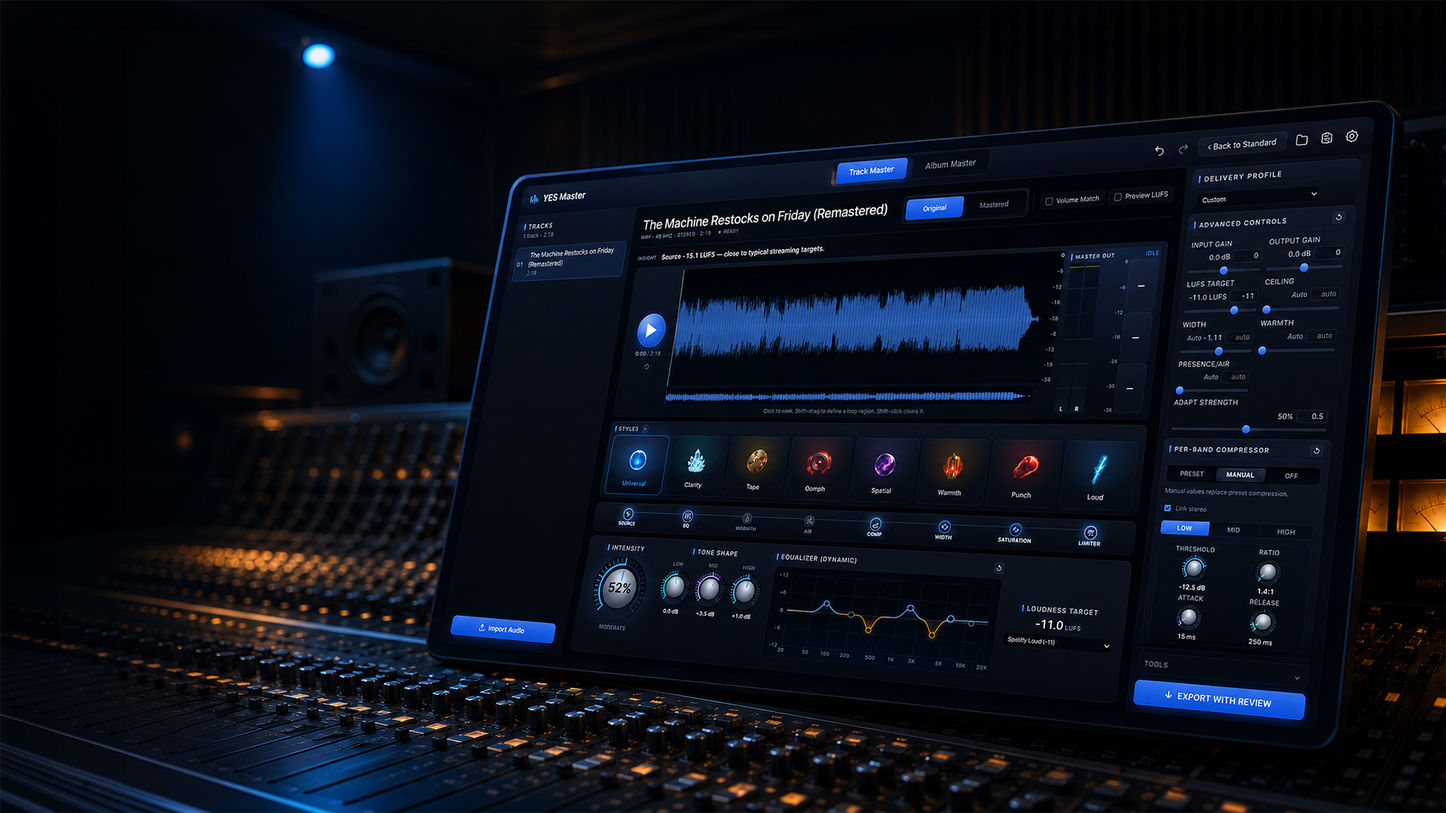
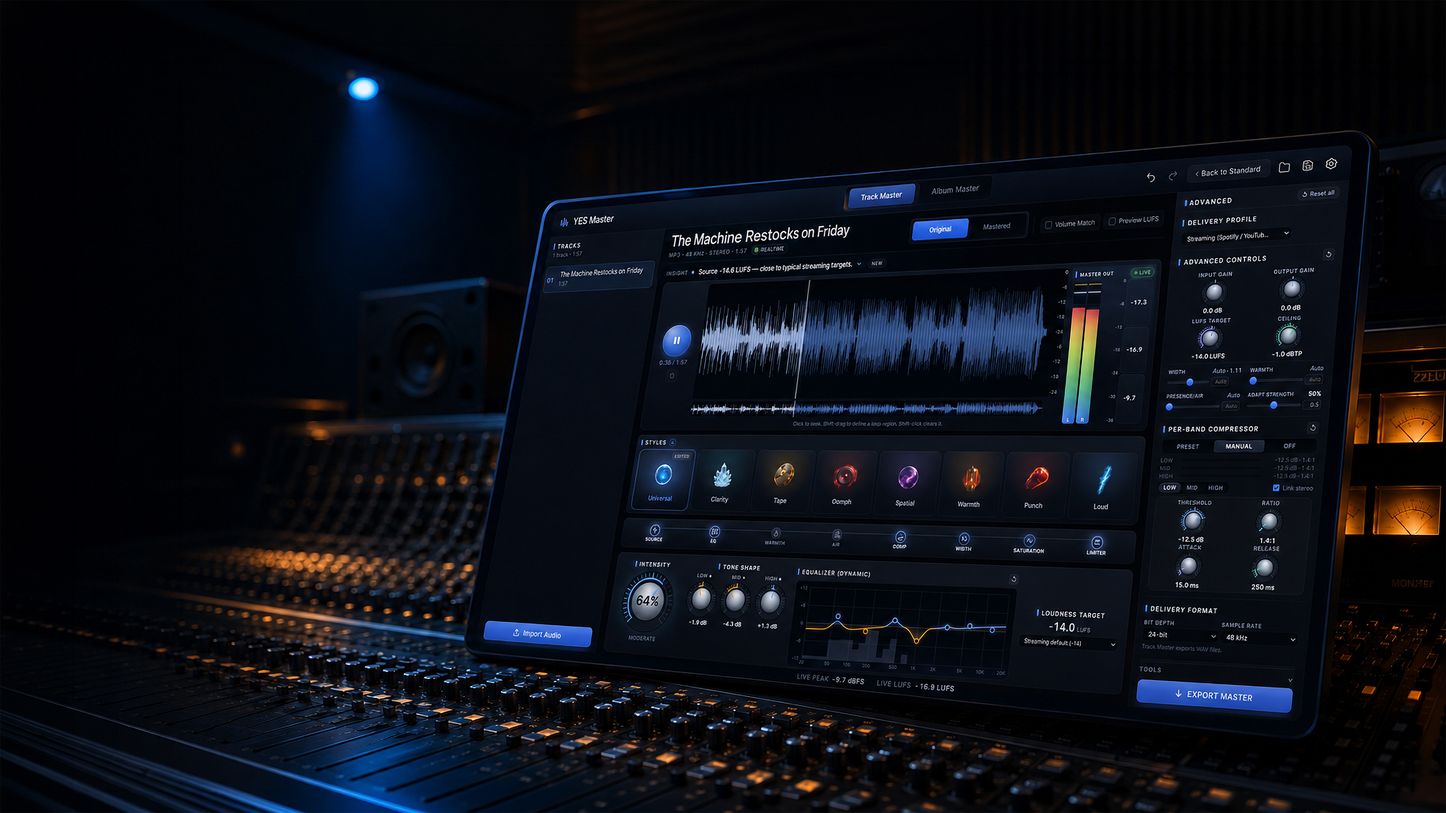
landing: new hero art, real Advanced session, sign-off plate, sheet copy
- Hero: owner's new console composite (real session on screen), exported
  at 2560 and 1280 with the 3840 master kept as -source.
- ProofDeck: 'One engine. Two rooms.' with the intro from the sheet; the
  Advanced plate is an owner capture of a real session, meters live. The
  manifest-bound Standard capture stays.
- SignOff: the one photograph, full-bleed between proof and character,
  fading into the page.
- Copy test hierarchy and the responsive lane's copy anchors follow the
  live headline ('One-click mastering. Your Endgame Sound.').
Lane, copy tests, and asset budget all green (eager 366 KB of 1465 KB).

Claude-Session: https://claude.ai/code/session_01D3Cr3FYqeYiaXmLE53fNoy

diff --git a/src/landing/ProofDeck.tsx b/src/landing/ProofDeck.tsx
@@ -1,5 +1,6 @@
 import standardImg from "../assets/landing/desktop-standard-ui.png";
-import advancedImg from "../assets/landing/desktop-advanced-ui.png";
+import advancedImg from "../assets/landing/owner-advanced-session.jpg";
+import advancedImg1280 from "../assets/landing/owner-advanced-session-1280.jpg";
 
 // U6 / claim C-07. These numbers are hand-authored and always were. They were
 // previously rendered as if they were product output, with nothing marking
@@ -15,9 +16,14 @@ const receipt: Array<[string, string, boolean]> = [
   ["Status", "Ready to ship", true],
 ];
 
-// Presentation (2026-08-18): the two real captures get the room — framed like
-// the product, side by side — and the receipt reads as the printed slip it
-// is. Same claims, same "Example" label ordering (label before first number).
+// Presentation (2026-08-18): the two captures get the room — framed like the
+// product, side by side — and the receipt reads as the printed slip it is.
+// Same claims, same "Example" label ordering (label before first number).
+//
+// 2026-09-01: the Advanced plate is an OWNER capture of a real session ("The
+// Machine Restocks on Friday", meters live, hand-shaped EQ). It is not in the
+// asset manifest because it is not a scripted capture; the manifest-bound
+// Standard capture stays as the Standard plate.
 export default function ProofDeck() {
   return (
     <section id="standard" className="relative bg-night px-5 py-20 sm:px-8 sm:py-28">
@@ -28,8 +34,13 @@ export default function ProofDeck() {
         <div className="max-w-2xl">
           <p className="eyebrow">From fast finish to full control</p>
           <h2 className="mt-4 font-display text-3xl font-black leading-[1.02] tracking-[-0.02em] sm:text-5xl">
-            One engine. Three ways to trust it.
+            One engine. Two rooms.
           </h2>
+          <p className="mt-4 text-muted sm:text-lg">
+            Standard is one clean column and one button. Advanced is the whole
+            console. They are the same engine, and both hand you the same
+            receipt.
+          </p>
         </div>
 
         <div className="mt-12 grid gap-6 lg:grid-cols-2">
@@ -70,15 +81,18 @@ export default function ProofDeck() {
               When you want the full room.
             </h3>
             <p className="mt-3 max-w-[52ch] text-[0.95rem] leading-relaxed text-muted">
-              Eight presets, a 7-band EQ, compressor modes, width and warmth,
-              live metering, and export review with a measured receipt.
+              A real session, meters live. Eight presets, a 7-band EQ,
+              compressor modes, width and warmth, live metering, and export
+              review with a measured receipt.
             </p>
             <div className="surface-frame mt-6 overflow-hidden rounded-xl p-1.5">
               <img
                 src={advancedImg}
-                alt="YES Master Advanced view"
-                width={1440}
-                height={1000}
+                srcSet={`${advancedImg1280} 1280w, ${advancedImg} 2048w`}
+                sizes="(min-width: 1024px) 50vw, 100vw"
+                alt="YES Master Advanced view during a real session, meters live"
+                width={2048}
+                height={1151}
                 loading="lazy"
                 decoding="async"
                 className="block w-full rounded-[0.6rem]"

diff --git a/src/landing/SignOff.tsx b/src/landing/SignOff.tsx
@@ -1,0 +1,37 @@
+import plate from "../assets/landing/plate-signoff.jpg";
+import plate1500 from "../assets/landing/plate-signoff-1500.jpg";
+
+// The one photograph on the page (owner-generated 2026-09-01), full-bleed
+// between the proof and the character controls. Mood, not evidence: it shows
+// no UI and makes no claim. Fades into the page at the bottom so the section
+// hands off to the next one instead of ending on a hard edge.
+export default function SignOff() {
+  return (
+    <figure className="border-t border-white/[0.06] bg-night">
+      <div className="relative overflow-hidden">
+        <img
+          src={plate}
+          srcSet={`${plate1500} 1500w, ${plate} 3000w`}
+          sizes="100vw"
+          alt="A desk at dusk: one lamp lit, studio monitors out of focus, a hand holding a pencil over a printed sheet."
+          width={3000}
+          height={1000}
+          loading="lazy"
+          decoding="async"
+          className="block h-[15rem] w-full object-cover object-[78%_60%] sm:h-auto sm:aspect-[3/1] sm:object-center"
+        />
+        <div
+          aria-hidden="true"
+          className="pointer-events-none absolute inset-x-0 bottom-0 h-24 bg-gradient-to-t from-night to-transparent"
+        />
+      </div>
+      <figcaption className="mx-auto grid max-w-6xl gap-2 px-5 pb-8 pt-4 text-sm leading-relaxed text-muted sm:grid-cols-[7rem_1fr] sm:px-8">
+        <span className="font-display text-base font-extrabold text-ink">Sign-off</span>
+        <span>
+          The last thing a master needs is someone to say it is finished. The
+          receipt is how YES Master says it.
+        </span>
+      </figcaption>
+    </figure>
+  );
+}

diff --git a/src/LandingPage.tsx b/src/LandingPage.tsx
@@ -2,6 +2,7 @@ import Nav from "./landing/Nav";
 import Hero from "./landing/Hero";
 import Workflow from "./landing/Workflow";
 import ProofDeck from "./landing/ProofDeck";
+import SignOff from "./landing/SignOff";
 import SoundCharacter from "./landing/SoundCharacter";
 import AlbumProof from "./landing/AlbumProof";
 import BetaTerms from "./landing/BetaTerms";
@@ -21,6 +22,7 @@ import FinalCTA from "./landing/FinalCTA";
  *   Hero            problem and outcome
  *   Workflow        what you actually do — three decisions
  *   ProofDeck       credible product proof, Standard as hero / Advanced as depth
+ *   SignOff         the one photograph, full-bleed
  *   SoundCharacter  character controls and adaptive restraint
  *   AlbumProof      depth proof, deliberately LOW — not a second audience
  *   BetaTerms       what the arrangement is, before anyone downloads
@@ -49,6 +51,7 @@ export default function LandingPage() {
       <Hero />
       <Workflow />
       <ProofDeck />
+      <SignOff />
       <SoundCharacter />
       <AlbumProof />
       <BetaTerms />

diff --git a/src/landing/LandingCopy.test.tsx b/src/landing/LandingCopy.test.tsx
@@ -49,9 +49,9 @@ describe("landing hierarchy (U6)", () => {
     // platform reality → action. The order IS the argument; asserting section
     // presence alone would let someone shuffle it back.
     const order = [
-      "Master your track in real time",
+      "Your Endgame Sound.",
       "Finished mix in. Finished master out.",
-      "One engine. Three ways to trust it.",
+      "One engine. Two rooms.",
       "It reads the track before it touches it.",
       "A record, not a folder of files.",
       "What you are actually agreeing to.",
@@ -72,7 +72,7 @@ describe("landing hierarchy (U6)", () => {
     // Leading with a record-length workflow misrepresents what most visitors
     // came to do, which is finish one track.
     expect(positionOf("A record, not a folder of files.")).toBeGreaterThan(
-      positionOf("One engine. Three ways to trust it."),
+      positionOf("One engine. Two rooms."),
     );
     expect(positionOf("A record, not a folder of files.")).toBeGreaterThan(
       positionOf("It reads the track before it touches it."),
